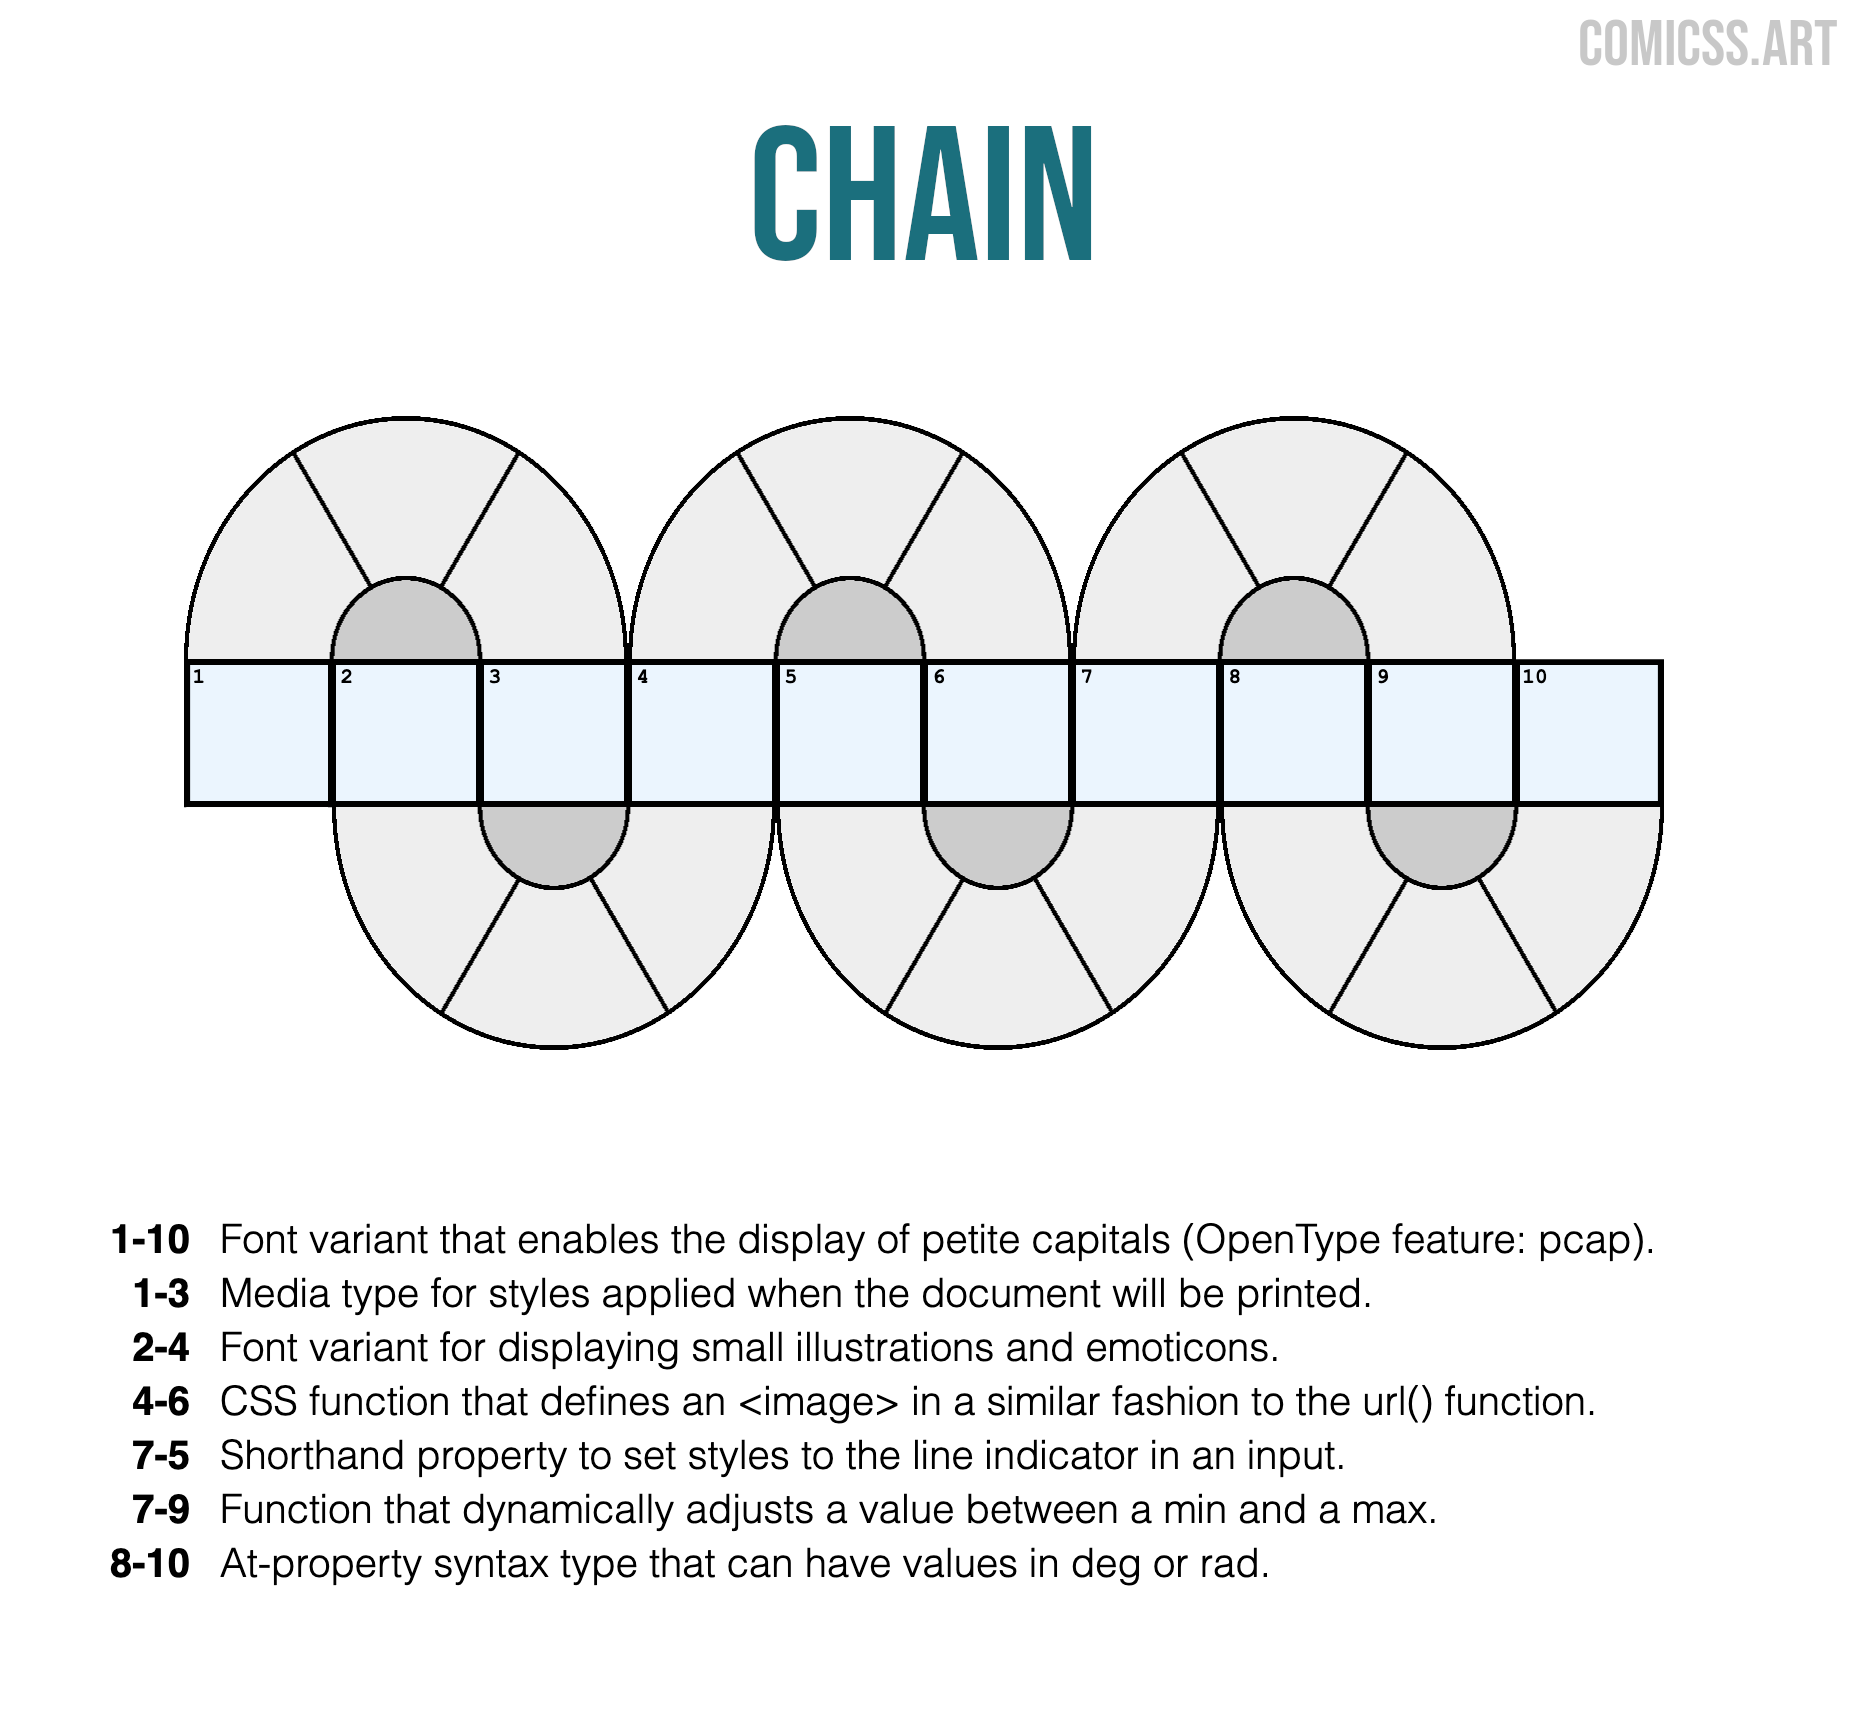
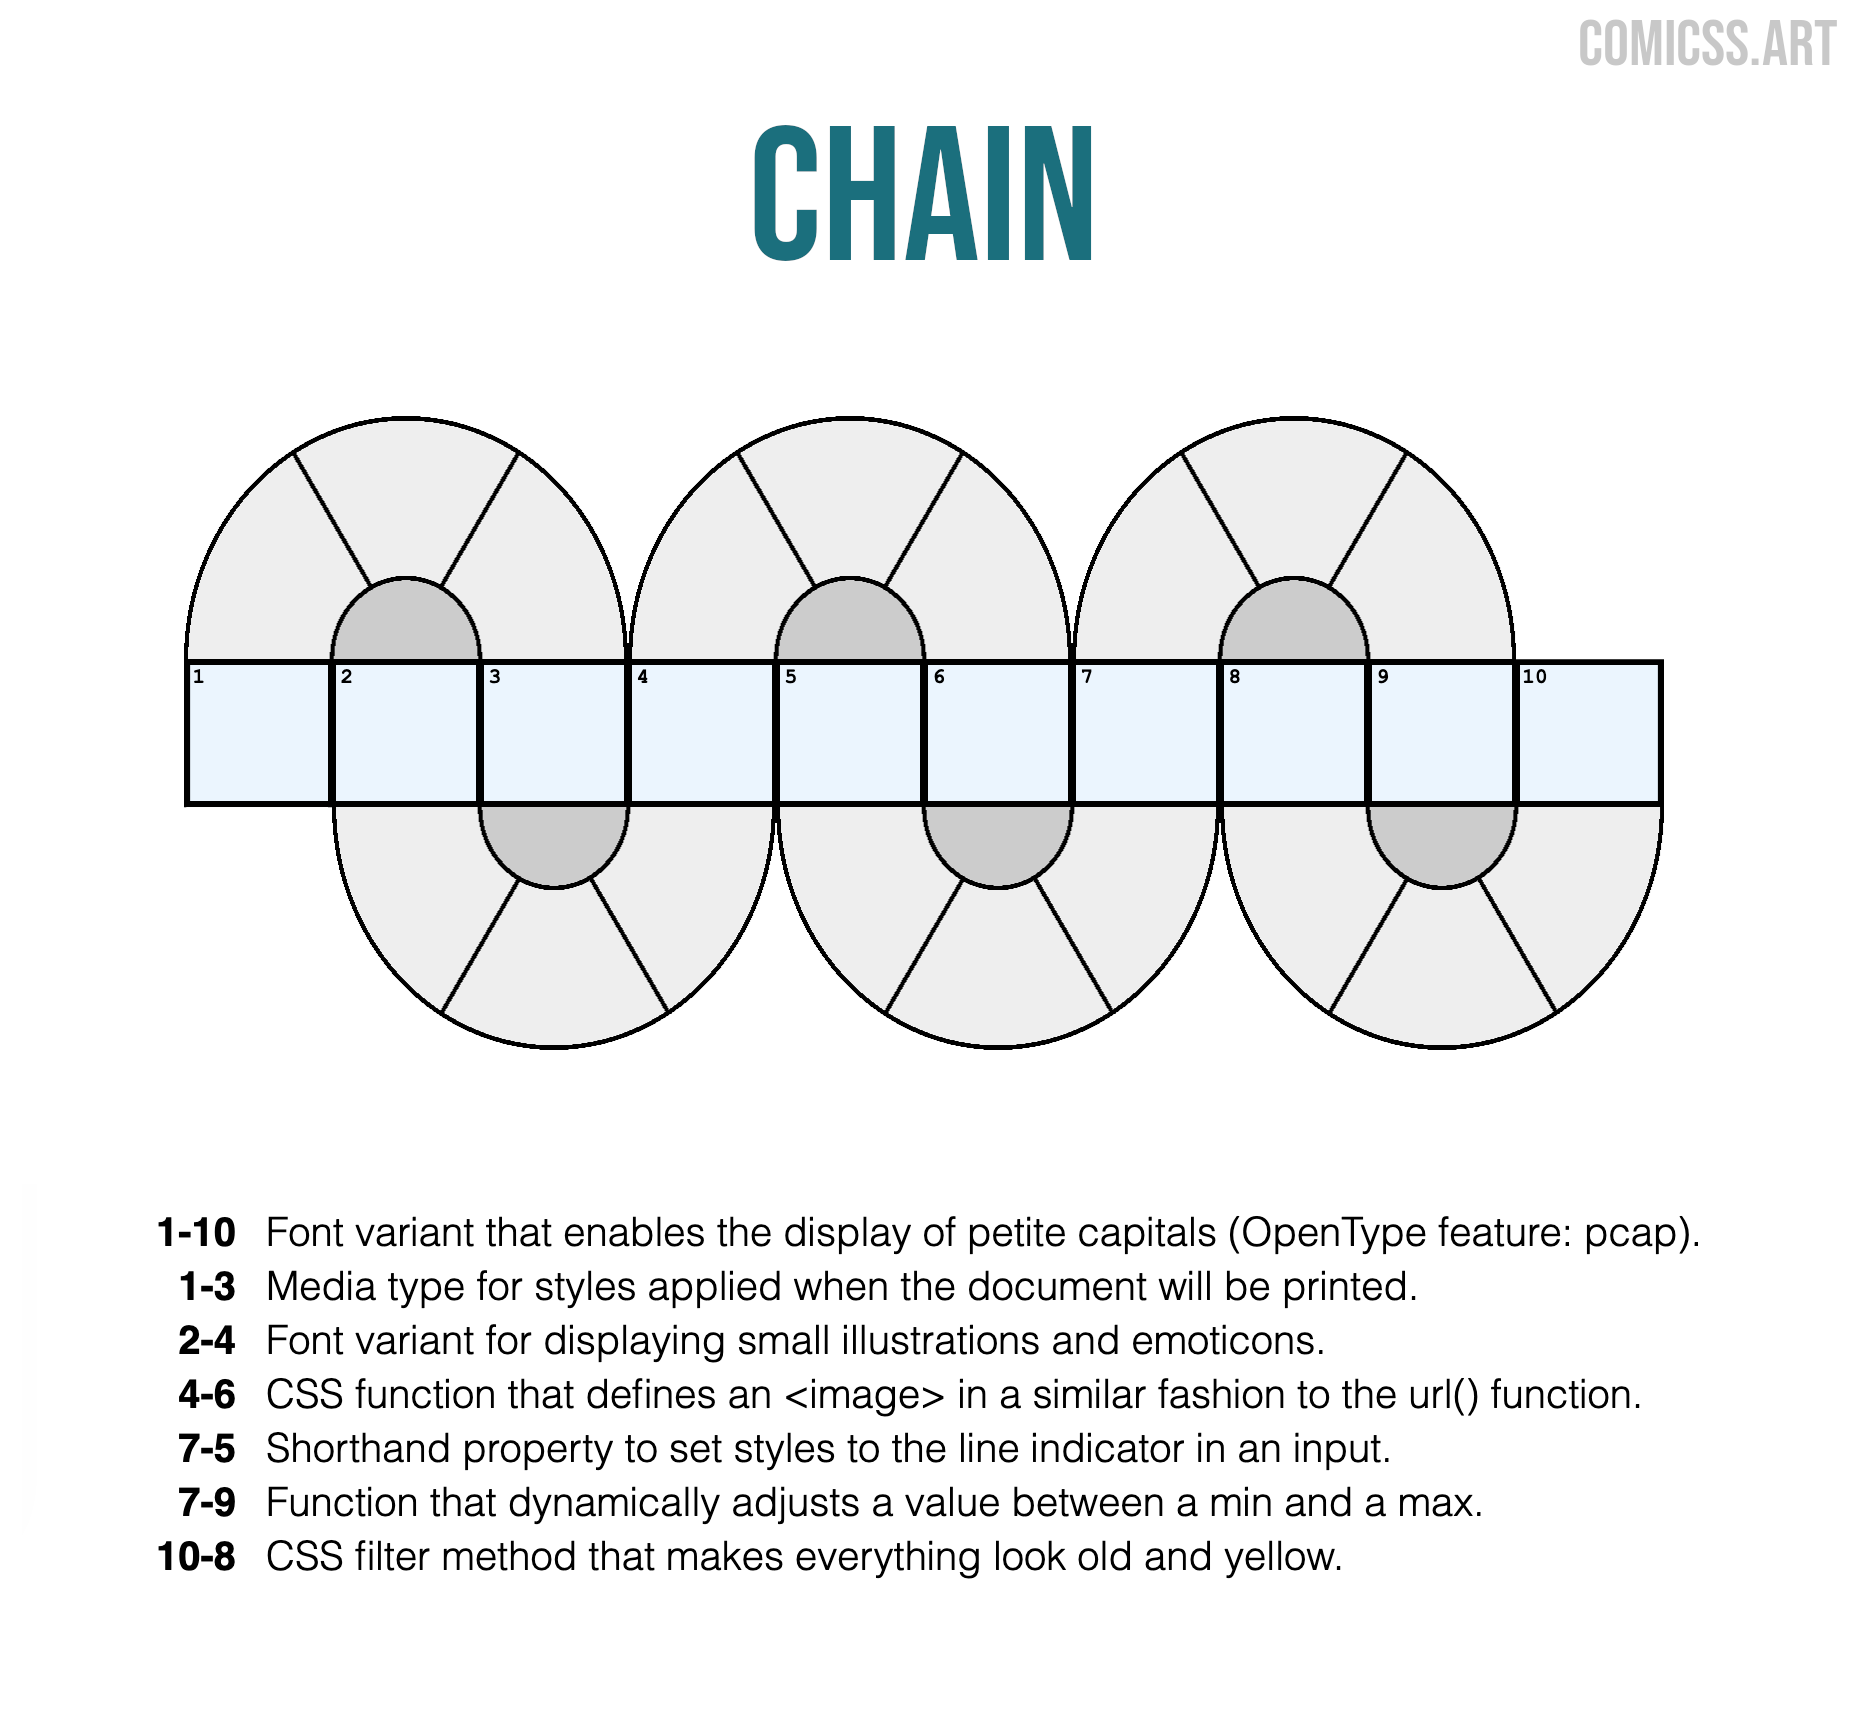
hotix/game 54

Changed region(s): [[0.0616, 0.7129, 0.9243, 0.9298]]

diff --git a/games/54/index.html b/games/54/index.html
@@ -133,10 +133,10 @@
           <input maxlength="1" required pattern="(m|M)" aria-describedby="hint-6" aria-label="word 6 letter 4" class="top top-3 pos-c">
           <input maxlength="1" required pattern="(p|P)" aria-describedby="hint-1 hint-6" aria-label="word 1 letter 9. word 6 letter 5" class="num num-9">
           <input maxlength="1" required pattern="(a|A)" aria-describedby="hint-1 hint-7" aria-label="word 1 letter 8. word 7 letter 1" class="num num-8">
-          <input maxlength="1" required pattern="(n|N)" aria-describedby="hint-7" aria-label="word 7 letter 2" class="bot bot-3 pos-a">
-          <input maxlength="1" required pattern="(g|G)" aria-describedby="hint-7" aria-label="word 7 letter 3" class="bot bot-3 pos-b">
-          <input maxlength="1" required pattern="(l|L)" aria-describedby="hint-7" aria-label="word 7 letter 4" class="bot bot-3 pos-c">
-          <input maxlength="1" required pattern="(e|E)" aria-describedby="hint-1 hint-7" aria-label="word 1 letter 10. word 7 letter 5" class="num num-0">
+          <input maxlength="1" required pattern="(i|I)" aria-describedby="hint-7" aria-label="word 7 letter 2" class="bot bot-3 pos-a">
+          <input maxlength="1" required pattern="(p|P)" aria-describedby="hint-7" aria-label="word 7 letter 3" class="bot bot-3 pos-b">
+          <input maxlength="1" required pattern="(e|E)" aria-describedby="hint-7" aria-label="word 7 letter 4" class="bot bot-3 pos-c">
+          <input maxlength="1" required pattern="(s|S)" aria-describedby="hint-1 hint-7" aria-label="word 1 letter 10. word 7 letter 5" class="num num-0">
         </section>
 
         <div class="button-group">
@@ -153,7 +153,7 @@
             <li id="hint-4" data-num="4-6"><span>4-6:</span> CSS function that defines an &lt;image&gt; in a similar fashion to the url() function.</li>
             <li id="hint-5" data-num="7-5"><span>7-5:</span> Shorthand property to set styles to the line indicator in an input.</li>
             <li id="hint-6" data-num="7-9"><span>7-9:</span> Function that dynamically adjusts a value between a min and a max.</li>
-            <li id="hint-7" data-num="8-10"><span>8-10:</span> At-property syntax type that can have values in deg or rad.</li>
+            <li id="hint-7" data-num="10-8"><span>10-8:</span> CSS filter method that makes everything look old and yellow.</li>
           </ul>
         </div>
 

diff --git a/games/54/solution.html b/games/54/solution.html
@@ -132,7 +132,7 @@
         <li id="hint-4">4-6: <span>IMAGE</span></li>
         <li id="hint-5">7-5: <span>TERAC (CARET)</span></li>
         <li id="hint-6">7-9: <span>CLAMP</span></li>
-        <li id="hint-7">8-10: <span>ANGLE</span></li>
+        <li id="hint-7">10-8: <span>AIPES (SEPIA)</span></li>
       </ol>
     </main>
 
